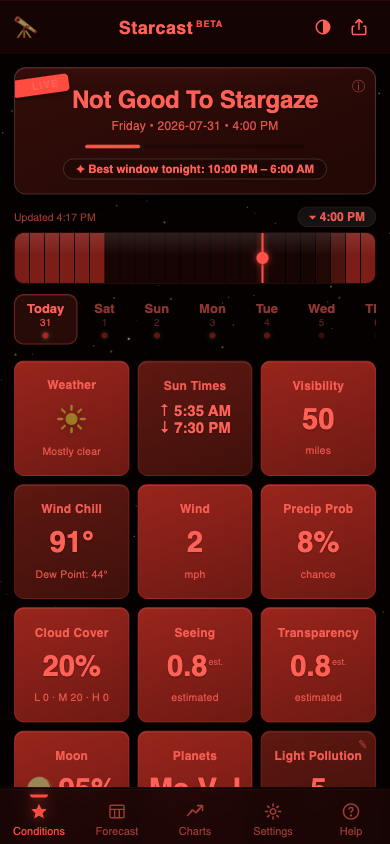
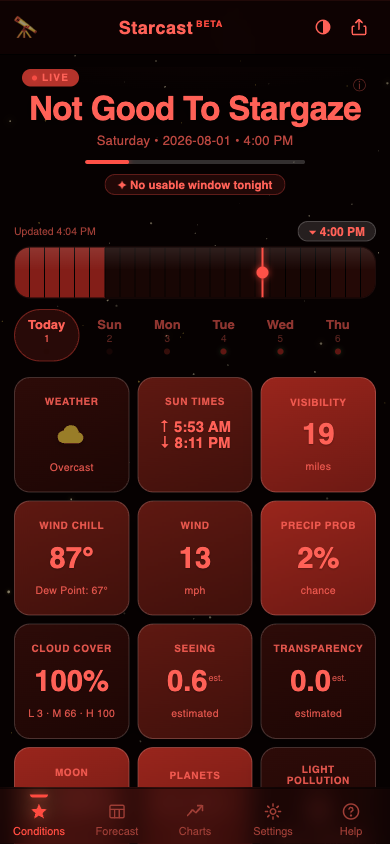
Hybrid Apple Weather redesign
Keeps the premium treatment where color-coding doesn't matter, keeps the
data surfaces instantly glanceable:

- Hero verdict: transparent banner on an atmospheric sky gradient, 33px
  type with a band-colored glow; LIVE badge is a clean pill
- Frosted-glass (backdrop-filter) header, nav, neutral panels, pills,
  controls; 16px radii; small-caps card headers
- Tiles and timeline keep SOLID band colors and 800-weight numerals —
  the green/olive/red glance test stays instant; no blur on tiles (GPU)
- Tile labels adopt the small-caps style at readable contrast
- Night mode verified: red palette overrides all frosted tints
- Refreshed docs screenshots; sw.js VERSION -> v9

diff --git a/css/style.css b/css/style.css
@@ -1152,3 +1152,187 @@ body.night .cal-btn { filter: sepia(1) saturate(5) hue-rotate(-38deg) brightness
 .timeline-head { min-height: 20px; }
 #tonight-body { min-height: 150px; } /* reserve space before async rows land */
 
+/* ============================================================
+   APPLE WEATHER THEME — uncommitted experiment.
+   Frosted-glass materials, airy typography, atmospheric gradient.
+   Compare: live site = previous look, localhost = this look.
+   Revert with `git restore css/style.css`; keep by committing.
+   ============================================================ */
+
+:root {
+  --radius: 16px;
+  --line: rgba(255, 255, 255, 0.16);
+  --line-soft: rgba(255, 255, 255, 0.10);
+  --text-dim: rgba(233, 239, 250, 0.62);
+  --card-shadow: 0 8px 24px rgba(0, 0, 0, 0.22);
+  /* Frosted materials: translucent tints that blur what's behind them */
+  --grad-panel: linear-gradient(180deg, rgba(255, 255, 255, 0.10), rgba(255, 255, 255, 0.05));
+}
+
+/* Atmospheric sky gradient, light at the horizon-top fading to deep night */
+body {
+  background: linear-gradient(180deg, #34456e 0%, #22304f 30%, #101b36 65%, #080e1e 100%);
+}
+
+/* Frosted materials */
+.panel, .notice, .error-box, .segmented, #city-search,
+.btn, .chip, #timeline-label, .update-toast, .day-tab.active, .ch-tip {
+  -webkit-backdrop-filter: blur(22px) saturate(150%);
+  backdrop-filter: blur(22px) saturate(150%);
+}
+.panel {
+  background: var(--grad-panel);
+  border: 1px solid rgba(255, 255, 255, 0.13);
+  box-shadow: var(--card-shadow);
+}
+.panel h2 {
+  font-size: 11px;
+  font-weight: 600;
+  text-transform: uppercase;
+  letter-spacing: 0.07em;
+  color: var(--text-dim);
+}
+.panel h2::before { display: none; }
+
+/* ---- Hero banner: transparent, big airy type, band-colored glow ---- */
+.banner,
+.banner.band-good, .banner.band-marginal, .banner.band-bad {
+  background: transparent;
+  border: none;
+  box-shadow: none;
+  padding-top: 22px;
+}
+.banner::before {
+  background: radial-gradient(65% 90% at 50% 12%, var(--good), transparent 72%);
+  opacity: 0;
+  transition: opacity 0.3s ease;
+}
+.banner.band-good::before { background: radial-gradient(65% 90% at 50% 12%, var(--good), transparent 72%); opacity: 0.38; }
+.banner.band-marginal::before { background: radial-gradient(65% 90% at 50% 12%, var(--marginal), transparent 72%); opacity: 0.38; }
+.banner.band-bad::before { background: radial-gradient(65% 90% at 50% 12%, var(--bad), transparent 72%); opacity: 0.38; }
+.verdict-text {
+  font-size: 33px;
+  font-weight: 600;
+  letter-spacing: -0.6px;
+  text-shadow: 0 2px 14px rgba(0, 0, 0, 0.4);
+}
+.verdict-sub { font-size: 13px; opacity: 0.72; margin-top: 6px; }
+.meter { background: rgba(255, 255, 255, 0.18); }
+.best-window {
+  background: rgba(255, 255, 255, 0.14);
+  border-color: rgba(255, 255, 255, 0.22);
+  -webkit-backdrop-filter: blur(22px) saturate(150%);
+  backdrop-filter: blur(22px) saturate(150%);
+}
+.ribbon {
+  transform: none;
+  top: 2px;
+  left: 8px;
+  border-radius: 999px;
+  background: rgba(79, 143, 232, 0.85);
+  box-shadow: none;
+}
+.info-hint { opacity: 0.4; }
+
+/* ---- Tiles: color-tinted frosted glass, Apple-style small-caps labels ---- */
+.tile {
+  border: 1px solid rgba(255, 255, 255, 0.16);
+  box-shadow: 0 8px 20px rgba(0, 0, 0, 0.16);
+}
+.t-label {
+  font-size: 10px;
+  font-weight: 700;
+  letter-spacing: 0.06em;
+  text-transform: uppercase;
+  opacity: 0.85;
+}
+
+/* ---- Timeline & day tabs ---- */
+#timeline-label {
+  background: rgba(255, 255, 255, 0.12);
+  border-color: rgba(255, 255, 255, 0.18);
+}
+.strip {
+  background: rgba(0, 0, 0, 0.28);
+  border-color: rgba(255, 255, 255, 0.14);
+  box-shadow: inset 0 1px 4px rgba(0, 0, 0, 0.3);
+}
+.seg { opacity: 0.95; }
+.day-tab { border-radius: 999px; padding: 7px 13px 6px; }
+.day-tab.active {
+  background: rgba(255, 255, 255, 0.16);
+  border-color: rgba(255, 255, 255, 0.26);
+  box-shadow: none;
+}
+.day-tab.active .dt-num { color: var(--text); }
+
+/* ---- Chrome: frosted header & nav ---- */
+header {
+  background: rgba(16, 25, 48, 0.55);
+  border-bottom-color: rgba(255, 255, 255, 0.08);
+  box-shadow: none;
+}
+nav {
+  background: rgba(12, 19, 38, 0.55);
+  border-top-color: rgba(255, 255, 255, 0.08);
+  box-shadow: none;
+}
+header h1 { font-weight: 600; }
+header .logo { filter: none; }
+
+/* ---- Controls ---- */
+.btn {
+  background: rgba(255, 255, 255, 0.10);
+  border-color: rgba(255, 255, 255, 0.18);
+  box-shadow: none;
+}
+.btn-accent { background: rgba(79, 143, 232, 0.75); border-color: rgba(255, 255, 255, 0.25); }
+#city-search {
+  background: rgba(0, 0, 0, 0.22);
+  border-color: rgba(255, 255, 255, 0.16);
+  box-shadow: none;
+}
+.chip {
+  background: rgba(255, 255, 255, 0.10);
+  border-color: rgba(255, 255, 255, 0.16);
+}
+.chip-auto.selected {
+  background: rgba(255, 255, 255, 0.24);
+  border-color: rgba(255, 255, 255, 0.35);
+  box-shadow: none;
+}
+.segmented { background: rgba(0, 0, 0, 0.22); border-color: rgba(255, 255, 255, 0.14); }
+.seg-btn.active {
+  background: rgba(255, 255, 255, 0.24);
+  box-shadow: none;
+}
+.switch { background: rgba(0, 0, 0, 0.3); border-color: rgba(255, 255, 255, 0.18); }
+.switch.on { background: rgba(79, 143, 232, 0.85); border-color: transparent; }
+.results li { border-bottom-color: rgba(255, 255, 255, 0.08); }
+.results li:hover, .results li:active { background: rgba(255, 255, 255, 0.08); }
+
+/* ---- Forecast grid: sticky labels over frosted panels ---- */
+.fc-grid th { background: rgba(18, 27, 50, 0.92); }
+
+/* ---- Charts ---- */
+.chart .ylab { background: rgba(10, 16, 32, 0.7); }
+.ch-tip { background: rgba(15, 22, 42, 0.75); border-color: rgba(255, 255, 255, 0.16); }
+
+/* ---- Loading skeleton on frosted surfaces ---- */
+body.loading .tile,
+body.loading .banner,
+body.loading .strip { background: rgba(255, 255, 255, 0.08); }
+
+/* Night mode: its opaque red palette overrides the vars above (body.night
+   is closer than :root), and frosted borders inherit the red --line. */
+body.night { background: #060101; }
+body.night .banner.band-good::before,
+body.night .banner.band-marginal::before,
+body.night .banner.band-bad::before { opacity: 0.3; }
+body.night header, body.night nav { background: rgba(20, 4, 4, 0.6); }
+body.night .fc-grid th { background: rgba(18, 4, 3, 0.92); }
+/* Night-mode fixes for the frosted theme's hardcoded blue accents */
+body.night .ribbon { background: rgba(210, 60, 50, 0.85); }
+body.night .btn-accent { background: rgba(190, 55, 45, 0.75); }
+body.night .switch.on { background: rgba(190, 55, 45, 0.85); }
+body.night .best-window { background: rgba(255, 80, 70, 0.10); border-color: rgba(255, 80, 70, 0.28); }

diff --git a/sw.js b/sw.js
@@ -7,7 +7,7 @@
 // NOTE FOR DEPLOYS: bump VERSION whenever app files change, so clients
 // drop the old precache on their next visit.
 
-const VERSION = 'starcast-v8';
+const VERSION = 'starcast-v9';
 const DATA_CACHE = `${VERSION}-data`;
 
 const SHELL = [
